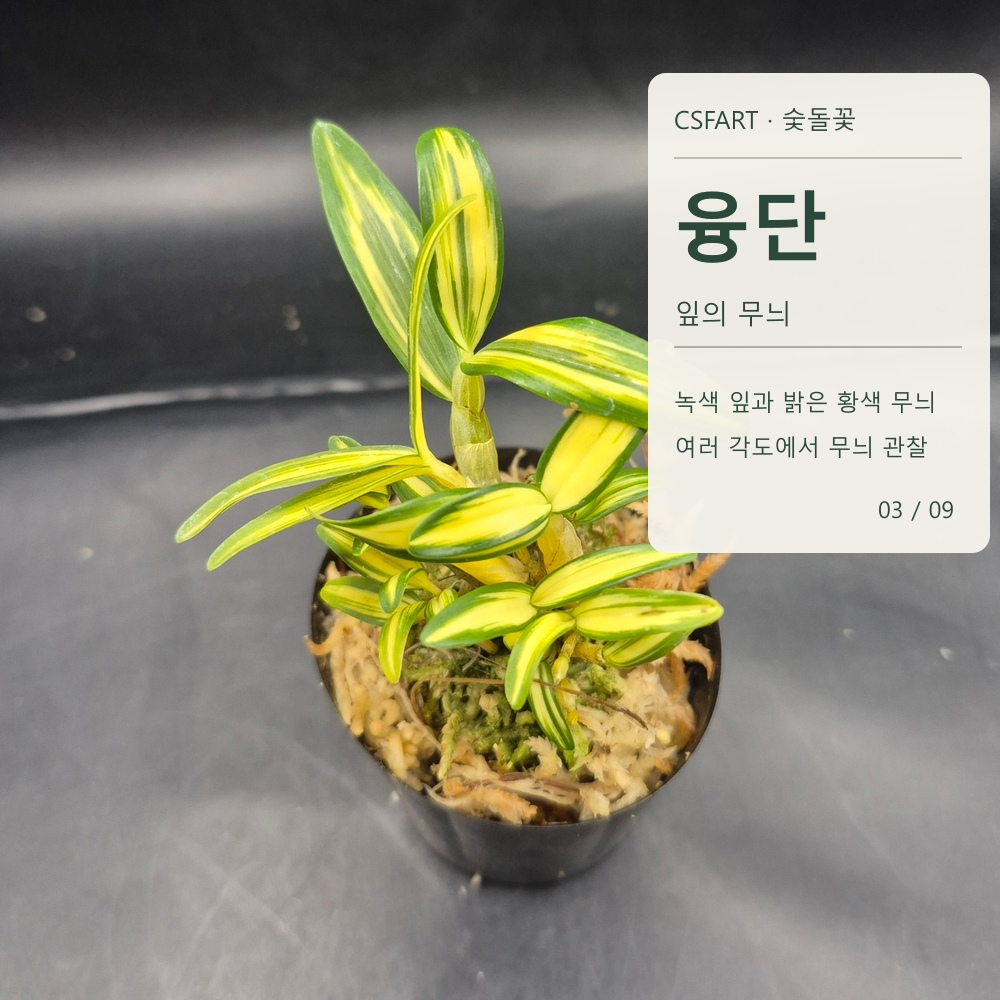
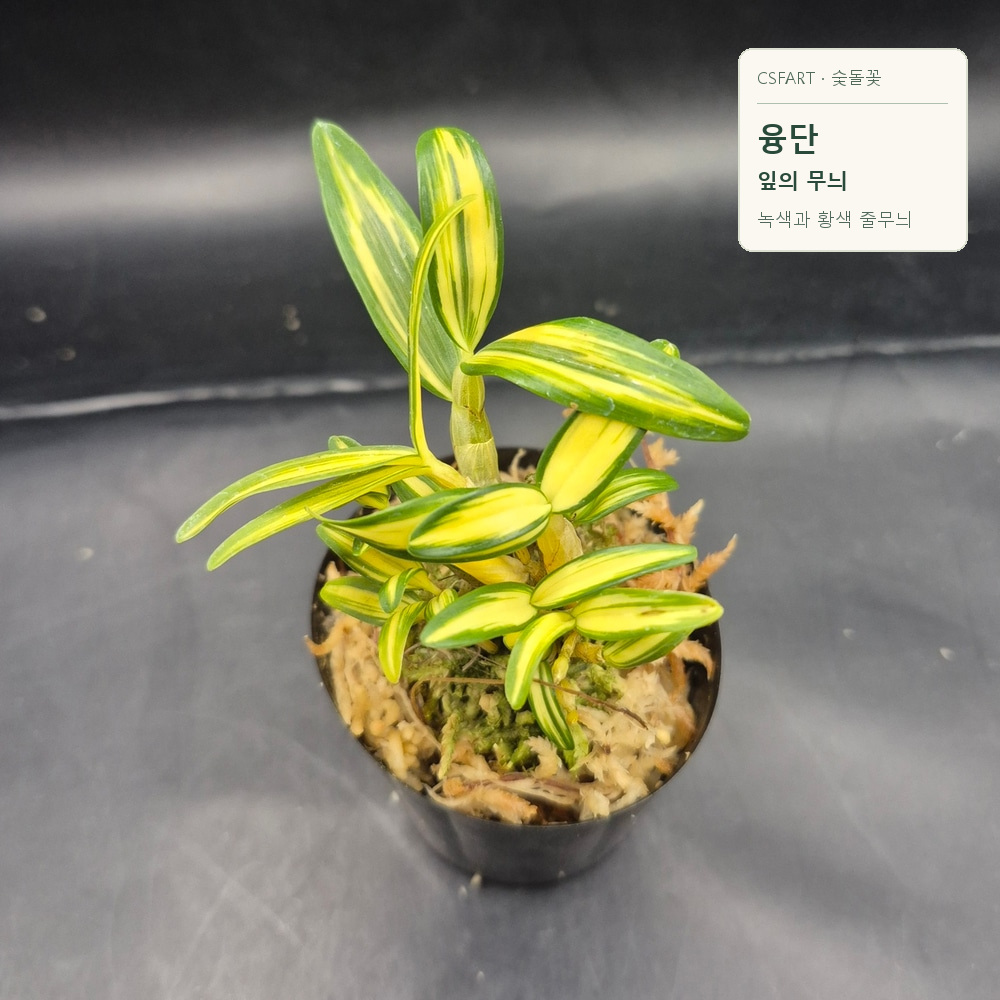
Correct Yungdan product copy, photo label and Naver link

Changed region(s): [[0.62, 0.031, 0.992, 0.558]]

diff --git a/product/yungdan-0001.html b/product/yungdan-0001.html
@@ -3,7 +3,7 @@
 <html lang="ko"><head><script defer="" src="https://gomire-csfart.github.io/analytics.js"></script>
 <meta charset="utf-8"/><meta content="width=device-width,initial-scale=1" name="viewport"/>
 <meta content="index,follow" name="robots"/>
-<meta content="태금용에서 변이된 삼광중반 석곡 융단 0001. 검은 2치 화분, 미개화 상품 실물사진 17장. 20,000원." name="description"/>
+<meta content="태금용에서 변이된 삼광중반 석곡 융단 0001. 검은색 2치 화분의 미개화 상품. 판매가 20,000원." name="description"/>
 <link href="https://gomire-csfart.github.io/csfart-catalog/product/yungdan-0001.html" rel="canonical"/>
 <title>석곡 융단 0001 | 숯돌꽃 난농원 CSFART</title>
 <meta content="product" property="og:type"/><meta content="석곡 융단 0001 | 숯돌꽃 난농원 CSFART" property="og:title"/>
@@ -25,9 +25,9 @@
 </style></head>
 <body><header><div class="brandbar"><a class="brand" href="../index.html"><img alt="CSFART" src="../assets/logo.png"/><span><b>CSFART</b><small>숯돌꽃 난농원</small></span></a><span class="private">CSFART 상품 안내</span></div>
 <nav aria-label="품종 분류"><a href="../category/plain.html">무지</a><a href="../category/stripe.html">호·중반</a><a href="../category/margin.html">복륜</a><a href="../category/special.html">특예</a><a href="../category/pattern.html">호반</a><a href="../category/flower.html">화물</a><a href="../category/beginner.html">입문·기타란</a><a aria-current="page" href="../category/seokgok.html">석곡</a><a href="../category/supplies.html">자재</a></nav><div aria-hidden="true" class="swipe-hint">옆으로 밀면 메뉴가 더 있어요 ›</div></header>
-<main><section class="detail ok-gallery"><div class="detail-heading"><div class="eyebrow">CSFART SEOKGOK COLLECTION</div><h1>석곡 융단 0001</h1><p class="sub">태금용 변이 · 삼광중반 석곡 · 미개화 · 검은색 2치 화분</p><p class="price">20,000원</p><p class="muted">CSFART융단_0001</p><p>실제 판매 개체의 삼광중반 잎무늬와 식재 상태를 사진에서 확인하세요.</p></div>
-<section class="dong-note"><h2>융단 0001의 특징</h2><p>융단은 태금용에서 변이된 삼광중반 석곡입니다. 잎의 녹색과 황색이 어우러진 무늬를 관찰할 수 있습니다.</p><p>현재 개화하지 않은 개체이며, 검은색 2치 화분에 수태로 식재돼 있습니다. 본 페이지는 2군의 실제 상품사진 9장과 설명 이미지 8장, 총 17장으로 구성했습니다.</p><p class="muted">꽃 사진이 없으므로 개화 색상·꽃 모양을 현재 개체의 촬영 결과로 표현하지 않습니다.</p></section>
-<h2>융단 0001 실물사진 9장 · 설명 이미지 8장 · 총 17장</h2>
-<section class="guide dong-gallery"><figure class="photo"><a href="../images/yungdan0001/융단_0001_01.jpg" rel="noopener" target="_blank"><img alt="석곡 융단 0001 실물 사진 01" height="1000" loading="lazy" src="../images/yungdan0001/융단_0001_01.jpg" width="1000"/></a><figcaption>01/17 · 석곡 융단 0001 실물 사진</figcaption></figure><figure class="photo"><a href="../images/yungdan0001/융단_0001_02.jpg" rel="noopener" target="_blank"><img alt="석곡 융단 0001 실물 사진 02" height="1000" loading="lazy" src="../images/yungdan0001/융단_0001_02.jpg" width="1000"/></a><figcaption>02/17 · 석곡 융단 0001 실물 사진</figcaption></figure><figure class="photo"><a href="../images/yungdan0001/융단_0001_03.jpg" rel="noopener" target="_blank"><img alt="석곡 융단 0001 실물 사진 03" height="1000" loading="lazy" src="../images/yungdan0001/융단_0001_03.jpg" width="1000"/></a><figcaption>03/17 · 석곡 융단 0001 실물 사진</figcaption></figure><figure class="guide-card"><a href="../images/yungdan0001/융단_0001_04.jpg" rel="noopener" target="_blank"><img alt="석곡 융단 0001 품종 설명 이미지 04" height="1000" loading="lazy" src="../images/yungdan0001/융단_0001_04.jpg" width="1000"/></a><figcaption>04/17 · 석곡 융단 0001 품종 설명 이미지</figcaption></figure><figure class="photo"><a href="../images/yungdan0001/융단_0001_05.jpg" rel="noopener" target="_blank"><img alt="석곡 융단 0001 실물 사진 05" height="1000" loading="lazy" src="../images/yungdan0001/융단_0001_05.jpg" width="1000"/></a><figcaption>05/17 · 석곡 융단 0001 실물 사진</figcaption></figure><figure class="guide-card"><a href="../images/yungdan0001/융단_0001_06.jpg" rel="noopener" target="_blank"><img alt="석곡 융단 0001 품종 설명 이미지 06" height="1000" loading="lazy" src="../images/yungdan0001/융단_0001_06.jpg" width="1000"/></a><figcaption>06/17 · 석곡 융단 0001 품종 설명 이미지</figcaption></figure><figure class="photo"><a href="../images/yungdan0001/융단_0001_07.jpg" rel="noopener" target="_blank"><img alt="석곡 융단 0001 실물 사진 07" height="1000" loading="lazy" src="../images/yungdan0001/융단_0001_07.jpg" width="1000"/></a><figcaption>07/17 · 석곡 융단 0001 실물 사진</figcaption></figure><figure class="guide-card"><a href="../images/yungdan0001/융단_0001_08.jpg" rel="noopener" target="_blank"><img alt="석곡 융단 0001 품종 설명 이미지 08" height="1000" loading="lazy" src="../images/yungdan0001/융단_0001_08.jpg" width="1000"/></a><figcaption>08/17 · 석곡 융단 0001 품종 설명 이미지</figcaption></figure><figure class="photo"><a href="../images/yungdan0001/융단_0001_09.jpg" rel="noopener" target="_blank"><img alt="석곡 융단 0001 실물 사진 09" height="1000" loading="lazy" src="../images/yungdan0001/융단_0001_09.jpg" width="1000"/></a><figcaption>09/17 · 석곡 융단 0001 실물 사진</figcaption></figure><figure class="guide-card"><a href="../images/yungdan0001/융단_0001_10.jpg" rel="noopener" target="_blank"><img alt="석곡 융단 0001 품종 설명 이미지 10" height="1000" loading="lazy" src="../images/yungdan0001/융단_0001_10.jpg" width="1000"/></a><figcaption>10/17 · 석곡 융단 0001 품종 설명 이미지</figcaption></figure><figure class="photo"><a href="../images/yungdan0001/융단_0001_11.jpg" rel="noopener" target="_blank"><img alt="석곡 융단 0001 실물 사진 11" height="1000" loading="lazy" src="../images/yungdan0001/융단_0001_11.jpg" width="1000"/></a><figcaption>11/17 · 석곡 융단 0001 실물 사진</figcaption></figure><figure class="guide-card"><a href="../images/yungdan0001/융단_0001_12.jpg" rel="noopener" target="_blank"><img alt="석곡 융단 0001 품종 설명 이미지 12" height="1000" loading="lazy" src="../images/yungdan0001/융단_0001_12.jpg" width="1000"/></a><figcaption>12/17 · 석곡 융단 0001 품종 설명 이미지</figcaption></figure><figure class="photo"><a href="../images/yungdan0001/융단_0001_13.jpg" rel="noopener" target="_blank"><img alt="석곡 융단 0001 실물 사진 13" height="1000" loading="lazy" src="../images/yungdan0001/융단_0001_13.jpg" width="1000"/></a><figcaption>13/17 · 석곡 융단 0001 실물 사진</figcaption></figure><figure class="guide-card"><a href="../images/yungdan0001/융단_0001_14.jpg" rel="noopener" target="_blank"><img alt="석곡 융단 0001 품종 설명 이미지 14" height="1000" loading="lazy" src="../images/yungdan0001/융단_0001_14.jpg" width="1000"/></a><figcaption>14/17 · 석곡 융단 0001 품종 설명 이미지</figcaption></figure><figure class="photo"><a href="../images/yungdan0001/융단_0001_15.jpg" rel="noopener" target="_blank"><img alt="석곡 융단 0001 실물 사진 15" height="1000" loading="lazy" src="../images/yungdan0001/융단_0001_15.jpg" width="1000"/></a><figcaption>15/17 · 석곡 융단 0001 실물 사진</figcaption></figure><figure class="guide-card"><a href="../images/yungdan0001/융단_0001_16.jpg" rel="noopener" target="_blank"><img alt="석곡 융단 0001 품종 설명 이미지 16" height="1000" loading="lazy" src="../images/yungdan0001/융단_0001_16.jpg" width="1000"/></a><figcaption>16/17 · 석곡 융단 0001 품종 설명 이미지</figcaption></figure><figure class="guide-card"><a href="../images/yungdan0001/융단_0001_17.jpg" rel="noopener" target="_blank"><img alt="석곡 융단 0001 품종 설명 이미지 17" height="1000" loading="lazy" src="../images/yungdan0001/융단_0001_17.jpg" width="1000"/></a><figcaption>17/17 · 석곡 융단 0001 품종 설명 이미지</figcaption></figure></section>
-<section class="buy"><h2>구매처 연결 대기</h2><p class="muted">상품 구매처 주소가 확인되면 연결할 예정입니다.</p></section></section></main>
+<main><section class="detail ok-gallery"><div class="detail-heading"><div class="eyebrow">CSFART SEOKGOK COLLECTION</div><h1>석곡 융단 0001</h1><p class="sub">태금용 변이 · 삼광중반 석곡 · 미개화 · 검은색 2치 화분</p><p class="price">20,000원</p><p class="muted">CSFART융단_0001</p><p>융단 0001의 삼광중반 잎무늬와 식재 상태를 사진으로 확인하세요.</p></div>
+<section class="dong-note"><h2>융단 0001의 특징</h2><p>융단은 태금용에서 변이된 삼광중반 석곡입니다. 잎의 녹색과 황색이 어우러진 무늬를 관찰할 수 있습니다.</p><p>현재 개화하지 않은 개체이며, 검은색 2치 화분에 수태로 식재돼 있습니다.</p></section>
+<h2>융단 0001 사진으로 보기</h2>
+<section class="guide dong-gallery"><figure class="photo"><a href="../images/yungdan0001/융단_0001_01.jpg" rel="noopener" target="_blank"><img alt="석곡 융단 0001 실물 사진 01" height="1000" loading="lazy" src="../images/yungdan0001/융단_0001_01.jpg" width="1000"/></a><figcaption>01/17 · 석곡 융단 0001 실물 사진</figcaption></figure><figure class="photo"><a href="../images/yungdan0001/융단_0001_02.jpg" rel="noopener" target="_blank"><img alt="석곡 융단 0001 실물 사진 02" height="1000" loading="lazy" src="../images/yungdan0001/융단_0001_02.jpg" width="1000"/></a><figcaption>02/17 · 석곡 융단 0001 실물 사진</figcaption></figure><figure class="photo"><a href="../images/yungdan0001/융단_0001_03.jpg" rel="noopener" target="_blank"><img alt="석곡 융단 0001 실물 사진 03" height="1000" loading="lazy" src="../images/yungdan0001/융단_0001_03.jpg" width="1000"/></a><figcaption>03/17 · 석곡 융단 0001 실물 사진</figcaption></figure><figure class="guide-card"><a href="../images/yungdan0001/융단_0001_04.jpg" rel="noopener" target="_blank"><img alt="석곡 융단 0001 품종 설명 이미지 04" height="1000" loading="lazy" src="../images/yungdan0001/융단_0001_04.jpg" width="1000"/></a><figcaption>04/17 · 석곡 융단 0001 품종 설명 이미지</figcaption></figure><figure class="photo"><a href="../images/yungdan0001/융단_0001_05.jpg" rel="noopener" target="_blank"><img alt="석곡 융단 0001 실물 사진 05" height="1000" loading="lazy" src="../images/yungdan0001/융단_0001_05.jpg" width="1000"/></a><figcaption>05/17 · 석곡 융단 0001 실물 사진</figcaption></figure><figure class="guide-card"><a href="../images/yungdan0001/융단_0001_06.jpg" rel="noopener" target="_blank"><img alt="석곡 융단 0001 품종 설명 이미지 06" height="1000" loading="lazy" src="../images/yungdan0001/융단_0001_06.jpg" width="1000"/></a><figcaption>06/17 · 석곡 융단 0001 품종 설명 이미지</figcaption></figure><figure class="photo"><a href="../images/yungdan0001/융단_0001_07.jpg" rel="noopener" target="_blank"><img alt="석곡 융단 0001 실물 사진 07" height="1000" loading="lazy" src="../images/yungdan0001/융단_0001_07.jpg" width="1000"/></a><figcaption>07/17 · 석곡 융단 0001 실물 사진</figcaption></figure><figure class="guide-card"><a href="../images/yungdan0001/융단_0001_08.jpg?v=fde65c3849e4" rel="noopener" target="_blank"><img alt="석곡 융단 0001 품종 설명 이미지 08" height="1000" loading="lazy" src="../images/yungdan0001/융단_0001_08.jpg?v=fde65c3849e4" width="1000"/></a><figcaption>08/17 · 석곡 융단 0001 품종 설명 이미지</figcaption></figure><figure class="photo"><a href="../images/yungdan0001/융단_0001_09.jpg" rel="noopener" target="_blank"><img alt="석곡 융단 0001 실물 사진 09" height="1000" loading="lazy" src="../images/yungdan0001/융단_0001_09.jpg" width="1000"/></a><figcaption>09/17 · 석곡 융단 0001 실물 사진</figcaption></figure><figure class="guide-card"><a href="../images/yungdan0001/융단_0001_10.jpg" rel="noopener" target="_blank"><img alt="석곡 융단 0001 품종 설명 이미지 10" height="1000" loading="lazy" src="../images/yungdan0001/융단_0001_10.jpg" width="1000"/></a><figcaption>10/17 · 석곡 융단 0001 품종 설명 이미지</figcaption></figure><figure class="photo"><a href="../images/yungdan0001/융단_0001_11.jpg" rel="noopener" target="_blank"><img alt="석곡 융단 0001 실물 사진 11" height="1000" loading="lazy" src="../images/yungdan0001/융단_0001_11.jpg" width="1000"/></a><figcaption>11/17 · 석곡 융단 0001 실물 사진</figcaption></figure><figure class="guide-card"><a href="../images/yungdan0001/융단_0001_12.jpg" rel="noopener" target="_blank"><img alt="석곡 융단 0001 품종 설명 이미지 12" height="1000" loading="lazy" src="../images/yungdan0001/융단_0001_12.jpg" width="1000"/></a><figcaption>12/17 · 석곡 융단 0001 품종 설명 이미지</figcaption></figure><figure class="photo"><a href="../images/yungdan0001/융단_0001_13.jpg" rel="noopener" target="_blank"><img alt="석곡 융단 0001 실물 사진 13" height="1000" loading="lazy" src="../images/yungdan0001/융단_0001_13.jpg" width="1000"/></a><figcaption>13/17 · 석곡 융단 0001 실물 사진</figcaption></figure><figure class="guide-card"><a href="../images/yungdan0001/융단_0001_14.jpg" rel="noopener" target="_blank"><img alt="석곡 융단 0001 품종 설명 이미지 14" height="1000" loading="lazy" src="../images/yungdan0001/융단_0001_14.jpg" width="1000"/></a><figcaption>14/17 · 석곡 융단 0001 품종 설명 이미지</figcaption></figure><figure class="photo"><a href="../images/yungdan0001/융단_0001_15.jpg" rel="noopener" target="_blank"><img alt="석곡 융단 0001 실물 사진 15" height="1000" loading="lazy" src="../images/yungdan0001/융단_0001_15.jpg" width="1000"/></a><figcaption>15/17 · 석곡 융단 0001 실물 사진</figcaption></figure><figure class="guide-card"><a href="../images/yungdan0001/융단_0001_16.jpg" rel="noopener" target="_blank"><img alt="석곡 융단 0001 품종 설명 이미지 16" height="1000" loading="lazy" src="../images/yungdan0001/융단_0001_16.jpg" width="1000"/></a><figcaption>16/17 · 석곡 융단 0001 품종 설명 이미지</figcaption></figure><figure class="guide-card"><a href="../images/yungdan0001/융단_0001_17.jpg" rel="noopener" target="_blank"><img alt="석곡 융단 0001 품종 설명 이미지 17" height="1000" loading="lazy" src="../images/yungdan0001/융단_0001_17.jpg" width="1000"/></a><figcaption>17/17 · 석곡 융단 0001 품종 설명 이미지</figcaption></figure></section>
+<section class="buy"><h2>석곡 융단 0001 구매하기</h2><p>네이버 스마트스토어에서 가격과 재고·배송 조건을 확인하세요.</p><div class="dong-buy-links"><a href="https://smartstore.naver.com/csfart/products/13826334915" target="_blank" rel="noopener noreferrer">네이버 스마트스토어에서 구매하기 ↗</a></div></section></section></main>
 <footer>CSFART · 숯돌꽃 난농원 · 난초 품종 도감</footer></body></html>
